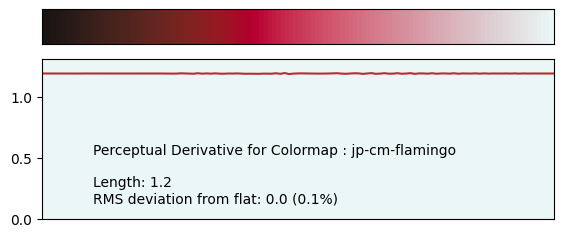
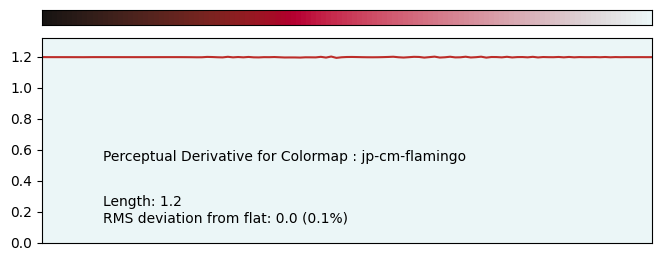
update readme

Changed region(s): [[0.0, 0.0295, 0.9964, 0.9747], [0.151, 0.5612, 0.8153, 0.6793], [0.151, 0.7384, 0.6039, 0.8861]]

diff --git a/gen/gen.py b/gen/gen.py
@@ -92,7 +92,7 @@ def calculatePD(gradient, RGB, name):
     """
 
     fig,_ = colour.plotting.plot_multi_colour_swatches(
-        [colour.plotting.ColourSwatch(RGB=np.clip(x, 0, 1)) for x in RGB], height = 8)
+        [colour.plotting.ColourSwatch(RGB=np.clip(x, 0, 1)) for x in RGB], height = int(len(gradient)/discretization))
     
     ax = fig.add_subplot(212)
 
@@ -110,12 +110,6 @@ def calculatePD(gradient, RGB, name):
     ax.margins(0.0)
     ax.set_facecolor(aijiro)
     # fig.tight_layout()
-    plt.subplots_adjust(left=0.1,
-                    bottom=0.1, 
-                    right=0.9, 
-                    top=0.9, 
-                    wspace=0.4, 
-                    hspace=0.4)
     return fig
 
 def gen_cmaps(cmaps,segmented=False):
